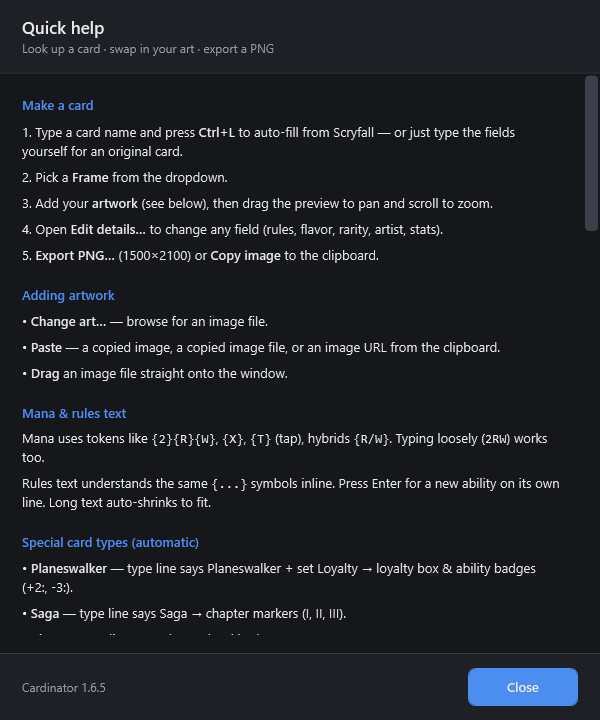
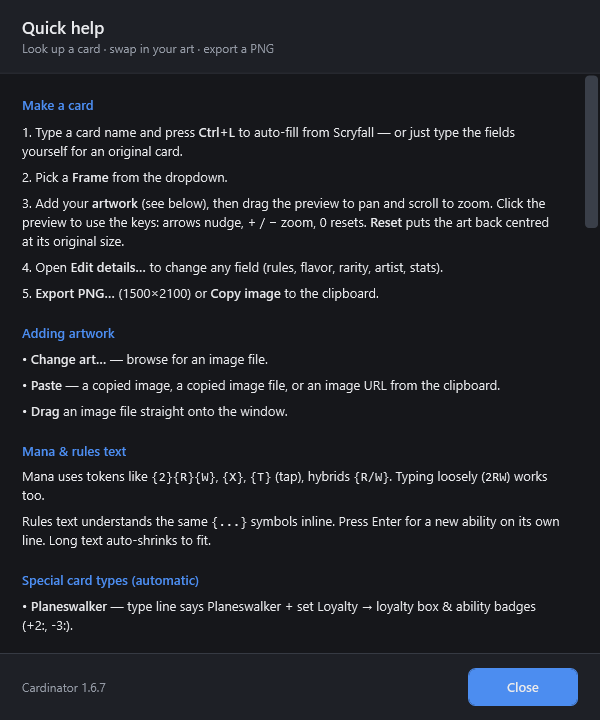
Reset art button and a keyboard hint under the preview (1.6.7)
Reset (next to Clear), or 0 on the focused preview, puts the art back
centred at its original size; undoable. A hint line under the preview
lists the art keys (arrows nudge, +/- zoom, 0 resets) and switches to
"Keys on..." while the preview has focus, so it is clear when they work.
Help, user guide and quickstart updated; screenshots regenerated.

Claude-Session: https://claude.ai/code/session_01YQxhqmVTrF28hAZ3P5Sz2p

diff --git a/src/Cardinator/MainWindow.xaml b/src/Cardinator/MainWindow.xaml
@@ -134,11 +134,14 @@
                             <ColumnDefinition Width="*"/>
                             <ColumnDefinition Width="Auto"/>
                             <ColumnDefinition Width="Auto"/>
+                            <ColumnDefinition Width="Auto"/>
                         </Grid.ColumnDefinitions>
                         <Button Grid.Column="0" Content="Change art…" Click="OnLoadArt"/>
                         <Button Grid.Column="1" Content="Paste" Click="OnPasteArt" Margin="6,0,0,0"
                                 ToolTip="Paste an image, a copied image file, or an image URL from the clipboard"/>
-                        <Button Grid.Column="2" Content="Clear" Style="{StaticResource Ghost}" Click="OnClearArt" Margin="6,0,0,0"/>
+                        <Button Grid.Column="2" Content="Reset" Style="{StaticResource Ghost}" Click="OnResetArt" Margin="6,0,0,0"
+                                ToolTip="Put the art back where it started: centred, at its original size (or press 0 on the preview)"/>
+                        <Button Grid.Column="3" Content="Clear" Style="{StaticResource Ghost}" Click="OnClearArt" Margin="6,0,0,0"/>
                     </Grid>
                     <TextBlock Text="Drop an image anywhere · drag the preview to pan · scroll to zoom" Foreground="{StaticResource Subtle}"
                                FontSize="11" Margin="2,0,0,18"/>
@@ -214,11 +217,19 @@
             <!-- ===== Preview ===== -->
             <Border Grid.Column="2" Background="{StaticResource PreviewBg}" CornerRadius="10" Padding="18">
                 <Grid>
+                    <Grid.RowDefinitions>
+                        <RowDefinition Height="*"/>
+                        <RowDefinition Height="Auto"/>
+                    </Grid.RowDefinitions>
+                    <TextBlock x:Name="PreviewHint" Grid.Row="1" HorizontalAlignment="Center" Margin="0,10,0,0" FontSize="11"
+                               Foreground="{StaticResource Subtle}" TextWrapping="Wrap" TextAlignment="Center"
+                               Text="Drag to pan · scroll to zoom · click the card for keys: arrows nudge, + / − zoom, 0 resets"/>
                     <Image x:Name="PreviewImageControl" Source="{Binding PreviewImage}" Stretch="Uniform"
                            Focusable="True" RenderOptions.BitmapScalingMode="HighQuality" SnapsToDevicePixels="True" Cursor="SizeAll"
                            MouseLeftButtonDown="OnPreviewMouseDown" MouseMove="OnPreviewMouseMove"
                            MouseLeftButtonUp="OnPreviewMouseUp" MouseWheel="OnPreviewWheel"
-                           ToolTip="Drag to pan · scroll to zoom (Ctrl = fine) · click then arrow keys to nudge, +/- to zoom"/>
+                           GotKeyboardFocus="OnPreviewFocusChanged" LostKeyboardFocus="OnPreviewFocusChanged"
+                           ToolTip="Drag to pan · scroll to zoom (Ctrl = fine) · click then arrow keys to nudge, +/- to zoom, 0 to reset"/>
                 </Grid>
             </Border>
         </Grid>

diff --git a/src/Cardinator/HelpWindow.xaml b/src/Cardinator/HelpWindow.xaml
@@ -49,7 +49,7 @@
                 <TextBlock Text="Make a card" Style="{StaticResource GroupHeader}"/>
                 <TextBlock Style="{StaticResource Body}"><Run Text="1."/>  Type a card name and press <Run FontWeight="SemiBold" Text="Ctrl+L"/> to auto-fill from Scryfall — or just type the fields yourself for an original card.</TextBlock>
                 <TextBlock Style="{StaticResource Body}"><Run Text="2."/>  Pick a <Run FontWeight="SemiBold" Text="Frame"/> from the dropdown.</TextBlock>
-                <TextBlock Style="{StaticResource Body}"><Run Text="3."/>  Add your <Run FontWeight="SemiBold" Text="artwork"/> (see below), then drag the preview to pan and scroll to zoom.</TextBlock>
+                <TextBlock Style="{StaticResource Body}"><Run Text="3."/>  Add your <Run FontWeight="SemiBold" Text="artwork"/> (see below), then drag the preview to pan and scroll to zoom. Click the preview to use the keys: arrows nudge, + / − zoom, 0 resets. <Run FontWeight="SemiBold" Text="Reset"/> puts the art back centred at its original size.</TextBlock>
                 <TextBlock Style="{StaticResource Body}"><Run Text="4."/>  Open <Run FontWeight="SemiBold" Text="Edit details…"/> to change any field (rules, flavor, rarity, artist, stats).</TextBlock>
                 <TextBlock Style="{StaticResource Body}"><Run Text="5."/>  <Run FontWeight="SemiBold" Text="Export PNG…"/> (1500×2100) or <Run FontWeight="SemiBold" Text="Copy image"/> to the clipboard.</TextBlock>
 

diff --git a/src/Cardinator/MainWindow.xaml.cs b/src/Cardinator/MainWindow.xaml.cs
@@ -2060,6 +2060,32 @@ public partial class MainWindow : Window, INotifyPropertyChanged
                  + (card.IsBackFace ? " (back face)" : card.IsOtherHalf ? $" (for “{card.Name}”)" : "");
     }
 
+    private void OnResetArt(object sender, RoutedEventArgs e) => ResetArt();
+
+    /// <summary>Puts the art back where it started — centred, at its original size — undoing any pan and zoom
+    /// (the Reset button, or 0 on the focused preview). Undoable like any other edit.</summary>
+    private void ResetArt()
+    {
+        var card = ActiveFace;
+        if (card == null) return;
+        if (card.ArtScale == 1.0 && card.ArtOffsetX == 0 && card.ArtOffsetY == 0)
+        {
+            Status = "The art is already centred at its original size.";
+            return;
+        }
+        card.ArtScale = 1.0;
+        card.ArtOffsetX = 0;
+        card.ArtOffsetY = 0;
+        RenderPreview();
+        Status = "Art reset: centred at its original size" + (card.IsBackFace ? " (back face)." : ".");
+    }
+
+    /// <summary>While the preview has keyboard focus, the hint under it says so — the keys only work then.</summary>
+    private void OnPreviewFocusChanged(object sender, System.Windows.Input.KeyboardFocusChangedEventArgs e)
+        => PreviewHint.Text = PreviewImageControl.IsKeyboardFocusWithin
+            ? "Keys on: arrows nudge the art (Shift = 10×) · + / − zoom · 0 resets · click elsewhere to stop"
+            : "Drag to pan · scroll to zoom · click the card for keys: arrows nudge, + / − zoom, 0 resets";
+
     private void OnClearArt(object sender, RoutedEventArgs e)
     {
         var card = ActiveFace;
@@ -2419,6 +2445,9 @@ public partial class MainWindow : Window, INotifyPropertyChanged
                 case System.Windows.Input.Key.Add:   ZoomArt(+zstep); e.Handled = true; return;
                 case System.Windows.Input.Key.OemMinus:
                 case System.Windows.Input.Key.Subtract: ZoomArt(-zstep); e.Handled = true; return;
+                case System.Windows.Input.Key.D0 or System.Windows.Input.Key.NumPad0
+                    when mods == System.Windows.Input.ModifierKeys.None:
+                    ResetArt(); e.Handled = true; return;
             }
         }
 

diff --git a/src/Cardinator/App.xaml.cs b/src/Cardinator/App.xaml.cs
@@ -355,7 +355,8 @@ public partial class App : Application
         3. **Add your art.** Click **Change art…**, **Paste** a copied image or URL, or just drag an image
            onto the window. Paste even handles images copied from a web browser. Drag the preview to pan,
            scroll to zoom (hold **Ctrl** for fine zoom); click the preview then use the **arrow keys** to
-           nudge the art a pixel at a time and **+ / -** to zoom.
+           nudge the art a pixel at a time, **+ / -** to zoom and **0** to reset. **Reset** (next to Clear)
+           puts the art back centred at its original size.
         4. **Edit the details.** Click **Edit details…** for mana cost, type line, rules/flavor text,
            power/toughness, loyalty, set, collector number, artist and more. Type mana as `{2}{U}{U}` —
            it renders as symbols, in the title and inside rules text.
@@ -414,7 +415,7 @@ public partial class App : Application
 
         ## Keyboard shortcuts
         `Ctrl+S` save · `Ctrl+O` open · `Ctrl+N` new · `Ctrl+L` look up · `Ctrl+E` export · `Ctrl+D` duplicate · `F1` help
-        · click the preview, then **arrows** nudge art (Shift = 10px) and **+/-** zoom
+        · click the preview, then **arrows** nudge art (Shift = 10px) , **+/-** zoom and **0** resets
 
         ---
         *Cardinator is for personal/fan use. Card frames and symbols are original; it isn't affiliated with

diff --git a/tests/Cardinator.Tests/WindowSmokeTests.cs b/tests/Cardinator.Tests/WindowSmokeTests.cs
@@ -417,6 +417,31 @@ public class WindowSmokeTests
         });
 
     [Fact]
+    public void MainWindow_ResetArt_PutsPannedZoomedArtBack_AndIsUndoable()   // 1.6.7
+        => OnAppThread(() =>
+        {
+            var main = new Cardinator.MainWindow { SuppressClosePrompt = true };
+            var card = main.SelectedCard!;
+            card.ArtPath = "art.png";
+            Invoke(main, "NudgeArt", 0.05, -0.03);
+            Invoke(main, "ZoomArt", 0.4);
+            Assert.NotEqual(0, card.ArtOffsetX);
+            main.CommitHistory();
+
+            Invoke(main, "OnResetArt", null, null);
+            Assert.Equal(1.0, card.ArtScale);
+            Assert.Equal(0, card.ArtOffsetX);
+            Assert.Equal(0, card.ArtOffsetY);
+            Assert.Equal("art.png", card.ArtPath);   // the art itself stays
+            main.CommitHistory();
+
+            main.Undo();
+            var undone = main.SelectedCard!;
+            Assert.Equal(1.4, undone.ArtScale, 6);
+            Assert.NotEqual(0, undone.ArtOffsetX);
+        });
+
+    [Fact]
     public void MainWindow_MeldBack_ArtMovesTheWayTheMouseGoes()
         => OnAppThread(() =>
         {

diff --git a/docs/TEST_PLAN.md b/docs/TEST_PLAN.md
@@ -122,7 +122,8 @@ folder, "duplicate set") would round out the lifecycle.
 - **B1 Load / B2 Paste image·file·URL / B3 Paste from browser / B4 Drag-drop.** ✅ B3 (browser→black) now
   fixed; all converge on copy-into-cache/set.
 - **B5 Position: drag-pan, scroll-zoom, Ctrl=fine, click→arrows nudge, +/- zoom.** ⚠ arrows/± need a
-  preview **click (focus)** first; tooltip-only discoverability. ⚠ No **reset-position** control.
+  preview **click (focus)** first — ✅ (1.6.7) a hint under the preview says so and changes while the keys are on.
+  ✅ (1.6.7) **Reset** button (and **0** on the preview) puts the art back centred at its original size, undoable.
 - **B6 Replace existing art.** ✅ SetArt resets pan/zoom — confirm that's desired vs. keeping framing.
 
 ### C. Frames
@@ -161,9 +162,9 @@ folder, "duplicate set") would round out the lifecycle.
 1. **Two lookup paths (A2/G6):** Ctrl+L (own name, +art, +DFC back) vs details Fill-from-Scryfall
    (details only). Clarify the story; maybe retire Ctrl+L or let details-search optionally fetch art/back.
 2. **Export-all output dir (D8):** verify it honors the set `out/`.
-3. **Keyboard art control discoverability (B5):** arrows/± need a preview click; only a tooltip hints it.
+3. ✅ **Keyboard art control discoverability (B5) (done, 1.6.7):** a hint line under the preview lists the keys, and switches to "Keys on…" while the preview has focus.
 4. **Multi-template zip import (C5):** one-per-file; note or support multi.
-5. **No reset-art-position control (B5/B6).**
+5. ✅ **Reset-art-position control (B5/B6) (done, 1.6.7):** **Reset** next to Clear, and **0** on the focused preview (`MainWindow.ResetArt`); undoable; window test.
 6. **Replace-art resets framing (B6):** confirm intended.
 
 *(The higher-impact, set-level gaps are ranked separately at the end of Part 1.)*

diff --git a/docs/QUICKSTART.md b/docs/QUICKSTART.md
@@ -15,7 +15,8 @@ Cardinator makes custom Magic-style cards from your own art — one at a time, o
 3. **Add your art.** Click **Change art…**, **Paste** a copied image or URL, or just drag an image
    onto the window. Paste even handles images copied from a web browser. Drag the preview to pan,
    scroll to zoom (hold **Ctrl** for fine zoom); click the preview then use the **arrow keys** to
-   nudge the art a pixel at a time and **+ / -** to zoom.
+   nudge the art a pixel at a time, **+ / -** to zoom and **0** to reset. **Reset** (next to Clear)
+   puts the art back centred at its original size.
 4. **Edit the details.** Click **Edit details…** for mana cost, type line, rules/flavor text,
    power/toughness, loyalty, set, collector number, artist and more. Type mana as `{2}{U}{U}` —
    it renders as symbols, in the title and inside rules text.
@@ -74,7 +75,7 @@ no setup: the folder is only created when you first save.
 
 ## Keyboard shortcuts
 `Ctrl+S` save · `Ctrl+O` open · `Ctrl+N` new · `Ctrl+L` look up · `Ctrl+E` export · `Ctrl+D` duplicate · `F1` help
-· click the preview, then **arrows** nudge art (Shift = 10px) and **+/-** zoom
+· click the preview, then **arrows** nudge art (Shift = 10px) , **+/-** zoom and **0** resets
 
 ---
 *Cardinator is for personal/fan use. Card frames and symbols are original; it isn't affiliated with

diff --git a/docs/USER_GUIDE.md b/docs/USER_GUIDE.md
@@ -41,7 +41,9 @@ the live preview that updates as you type.*
    - **Drag an image file straight onto the window.**
 4. **Position the art.** Drag on the preview to **pan**, scroll to **zoom** (hold **Ctrl** for fine
    zoom). Click the preview, then nudge with the **arrow keys** (hold **Shift** for 10px steps) and
-   zoom with **+ / -**. (The Art zoom / Pan sliders in **Edit details…** work too.)
+   zoom with **+ / -**; the hint under the preview says when the keys are on. **Reset** (next to
+   **Clear**), or **0** on the preview, puts the art back centred at its original size — undoable with
+   **Ctrl+Z**. (The Art zoom / Pan sliders in **Edit details…** work too.)
 5. **Tweak anything** by hand in **Edit details…** — every field is editable, so you can change
    the rules text, add flavor text, set rarity, artist, etc. — or make a completely original card
    with no Scryfall lookup at all.
